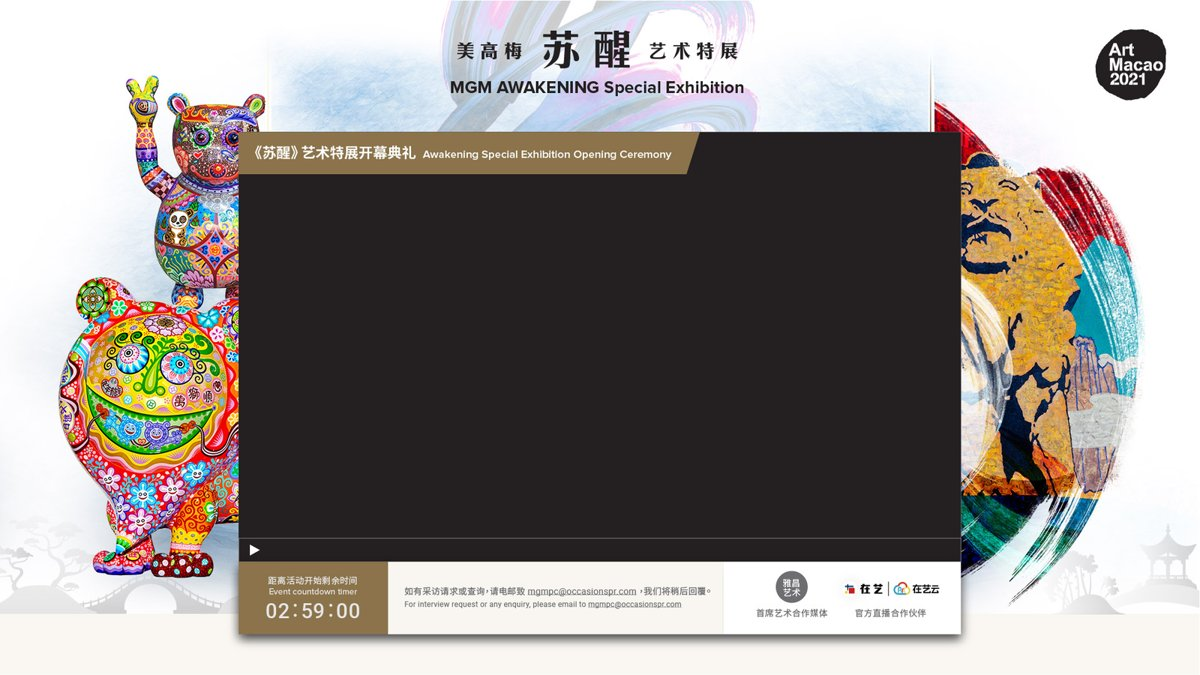
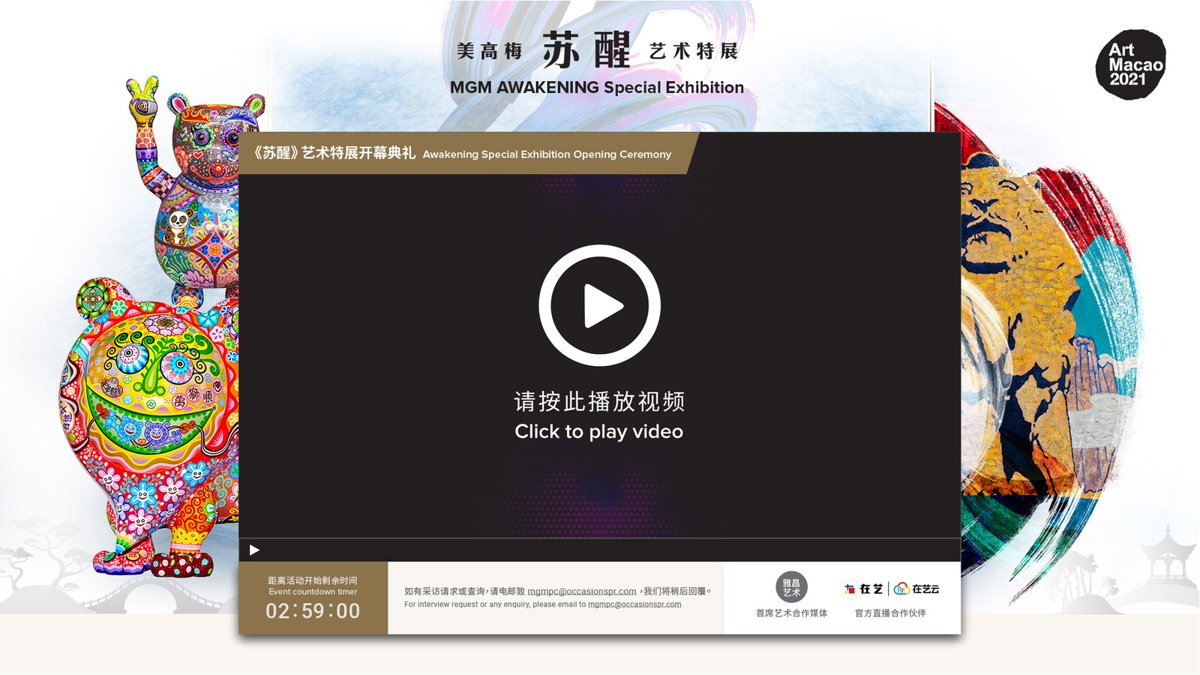
update pictures

Changed region(s): [[0.4317, 0.3422, 0.5858, 0.6533], [0.4625, 0.6844, 0.555, 0.8089], [0.4625, 0.2489, 0.5242, 0.28]]

diff --git a/projects/mgm-awakening/index.html b/projects/mgm-awakening/index.html
@@ -8,7 +8,7 @@
   <section id="project-detail"><div class="container mx-auto px-8 py-12"><nav class="breadcrumb mb-4" aria-label="Breadcrumb"><a href="/projects/">Projects</a> <span aria-hidden="true">/</span> <span class="category svc-event">Event and Guest Management</span></nav><h1 class="text-2xl font-normal mb-4">MGM &mdash; &lsquo;Awakening&rsquo; Special Exhibition Opening</h1>
     <div class="project-story mb-4"><p>As part of Art Macao 2021, MGM opened its &lsquo;Awakening&rsquo; Special Exhibition, which ran until 31 October 2021. The opening on 16 July 2021 combined the exhibition&rsquo;s opening ceremony with a Greater Bay Area Art Symposium, and was broadcast live for media and art audiences who could not attend in person.</p><p>Cowise built the live broadcast mini-site in Chinese and English and ran it through the afternoon. A countdown led into the symposium and then the ceremony, with the player and messages changing for each part of the programme. Media enquiries and press-kit requests were handled from the same page. When the broadcast ended, the site switched to a thank-you message pointing visitors to the exhibition website.</p></div>
     <ul class="tags mb-8"><li>#LiveStreaming</li><li>#Minisite</li><li>#Countdown</li><li>#Bilingual</li><li>#MediaRelations</li><li>#ResponsiveWebDesign</li></ul>
-    <div class="project-gallery"><figure class="lead"><img src="/media/images/projects/mgm-awakening/01.webp" width="1600" height="900" alt="Live broadcast player for the Awakening Special Exhibition opening ceremony"></figure><div class="rest"><figure><img loading="lazy" src="/media/images/projects/mgm-awakening/02.webp" width="1600" height="900" alt="Pre-show screen announcing the Greater Bay Area Art Symposium"></figure><figure><img loading="lazy" src="/media/images/projects/mgm-awakening/03.webp" width="750" height="1334" alt="Mobile layout with player and event countdown"></figure><figure><img loading="lazy" src="/media/images/projects/mgm-awakening/04.webp" width="1600" height="900" alt="Post-event thank-you screen pointing to the exhibition website"></figure><figure><img loading="lazy" src="/media/images/projects/mgm-awakening/05.webp" width="750" height="1624" alt="Mobile thank-you screen after the broadcast"></figure><figure><img loading="lazy" src="/media/images/projects/mgm-awakening/06.webp" width="1600" height="900" alt="Bilingual click-to-play video poster"></figure></div></div>
+    <div class="project-gallery"><figure class="lead"><img src="/media/images/projects/mgm-awakening/01.webp" width="1600" height="900" alt="Live broadcast player for the Awakening Special Exhibition opening ceremony"></figure><div class="rest"><figure><img loading="lazy" src="/media/images/projects/mgm-awakening/02.webp" width="1600" height="900" alt="Pre-show screen announcing the Greater Bay Area Art Symposium"></figure><figure><img loading="lazy" src="/media/images/projects/mgm-awakening/03.webp" width="750" height="1334" alt="Mobile layout with player and event countdown"></figure><figure><img loading="lazy" src="/media/images/projects/mgm-awakening/04.webp" width="1600" height="900" alt="Post-event thank-you screen pointing to the exhibition website"></figure><figure><img loading="lazy" src="/media/images/projects/mgm-awakening/05.webp" width="750" height="1624" alt="Mobile thank-you screen after the broadcast"></figure></div></div>
     <div class="project-expertise"><h2>Expertise</h2><div class="expertise-grid">
       <article class="svc-event"><h3>Bilingual broadcast mini-site</h3><p>A Chinese and English event site in the exhibition&rsquo;s visual identity, built for desktop and mobile viewers.</p></article>
       <article class="svc-event"><h3>Programme-aware states</h3><p>Countdown, pre-show messages for the symposium and the ceremony, the live player and a post-event screen, each switched on schedule to match the run of show.</p></article>
